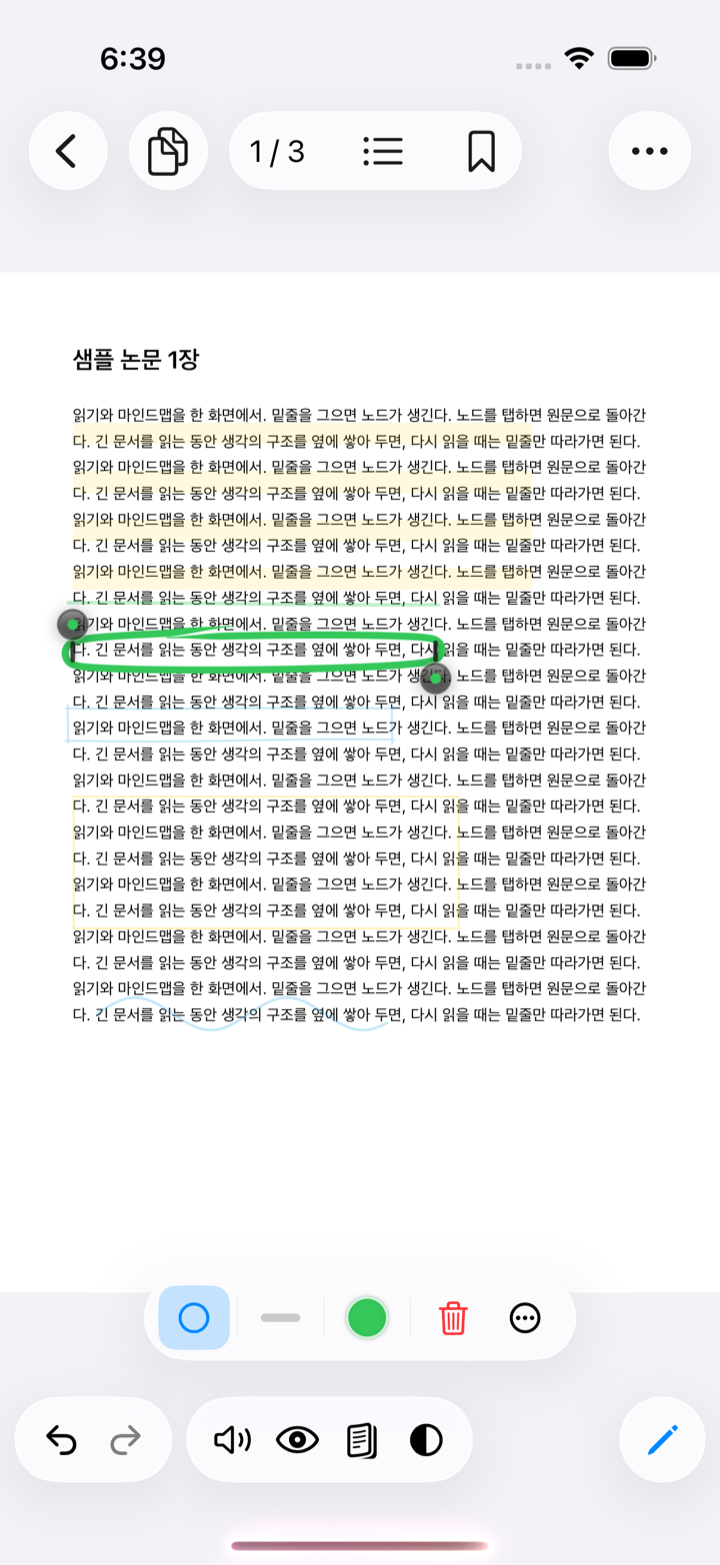
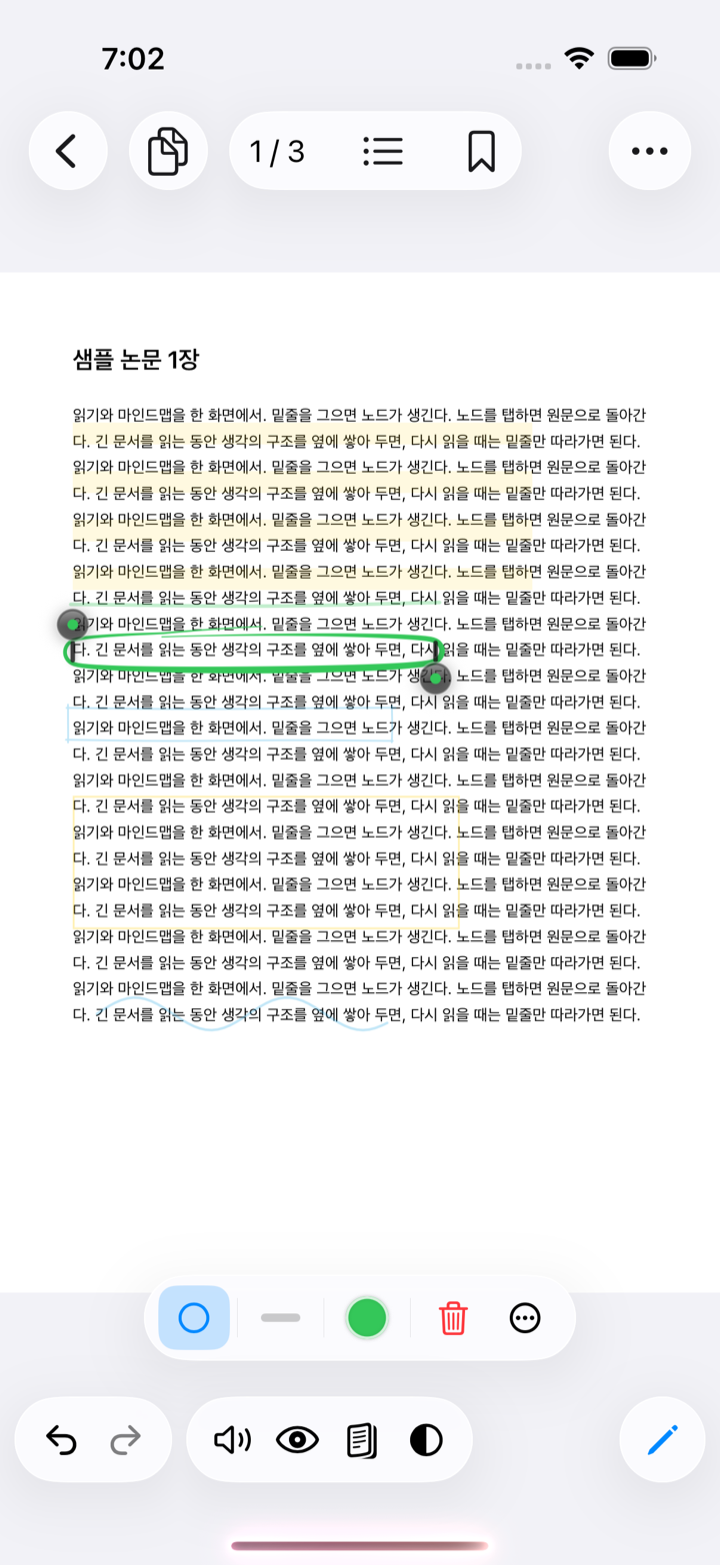
fix: blog — SuperPDF 줄 표시 만년필의 가늘어지는 길이 (획 길이 비례), 스크린샷 교체
Claude-Session: https://claude.ai/code/session_01UreDqozjHLdwUGiykiUzpR

Changed region(s): [[0.0917, 0.3681, 0.6111, 0.4294], [0.1222, 0.0307, 0.2444, 0.0613]]

diff --git a/src/content/blog/ko/2026-11-02-superpdf-hand-drawn-styles.md b/src/content/blog/ko/2026-11-02-superpdf-hand-drawn-styles.md
@@ -125,7 +125,7 @@ summary: "줄 표시가 형광펜·밑줄 둘에서 취소선·동그라미·네
 
 ![만년필로 바꾼 동그라미, 꼬리 쪽이 가늘게 빠진다](/blog/superpdf-hand-drawn-styles/fountain-circle.png)
 
-굵기 공식은 손글씨 만년필과 똑같은 것을 쓴다. 다만 손글씨에 있는 압력 민감도는 뺐다. 손글씨는 펜슬의 힘이나 손가락의 속도가 있지만, 줄 표시는 글줄에서 계산하는 모양이라 누르는 힘이라는 게 없다. 가짜 압력으로 가운데를 부풀리는 안도 있었지만, 선명도가 이미 "가운데는 제 굵기, 끝은 가늘게" 를 낸다.
+굵기 공식은 손글씨 만년필에서 가져왔지만 가늘어지는 길이는 다르다. 손글씨는 굵기에 따라 10–60pt 로 고정인데, 그걸 그대로 쓰니 400pt 밑줄은 끝 13pt 만 바늘처럼 꺾였다. 줄 표시는 획 길이에 비례해서 가늘어진다 — 선명도 100 이면 양끝에서 가운데까지 내내 이어지는 방추꼴이고, 60 이면 획의 30% 씩이다. 손글씨에 있는 압력 민감도는 뺐다. 손글씨는 펜슬의 힘이나 손가락의 속도가 있지만, 줄 표시는 글줄에서 계산하는 모양이라 누르는 힘이라는 게 없다. 가짜 압력으로 가운데를 부풀리는 안도 있었지만, 선명도가 이미 "가운데는 제 굵기, 끝은 가늘게" 를 낸다.
 
 그리는 방식은 바뀌었다. 볼펜은 가운뎃줄을 일정한 폭의 선으로 긋는다. 만년필은 점마다 굵기가 달라서 선으로는 못 그리고, 점마다 그 굵기만큼 양옆으로 벌린 외곽선을 만들어 채운다. 네모는 네 변이 각자 양끝이 가는 네 획이 된다. 굵기는 화면 좌표에서 매긴다 — 90도 돌아간 스캔 쪽에서도 펜촉 방향이 화면 기준이어야 붓글씨처럼 보인다. 볼펜 경로는 예전과 한 점도 다르지 않은지 테스트가 비교한다.
 
@@ -139,4 +139,4 @@ summary: "줄 표시가 형광펜·밑줄 둘에서 취소선·동그라미·네
 - 2026-11-03 — 동그라미의 뾰족한 끝을 둥글게, 겹침은 윗변으로
 - 2026-11-03 — 흔들림 슬라이더(0–100), 팝오버 화살표 고정을 뺌
 - 2026-11-05 — 새로 그은 줄에는 손잡이만, 툴팁은 탭할 때만
-- 2026-11-07 — 줄 표시에도 펜 종류: 볼펜 / 만년필(펜끝 선명도·펜 편평도)
+- 2026-11-07 — 줄 표시에도 펜 종류: 볼펜 / 만년필(펜끝 선명도·펜 편평도); 가늘어지는 길이는 획 길이에 비례

diff --git a/src/content/blog/en/2026-11-02-superpdf-hand-drawn-styles.md b/src/content/blog/en/2026-11-02-superpdf-hand-drawn-styles.md
@@ -110,7 +110,7 @@ Until now all four line marks were even-width, like a ballpoint. The handwriting
 
 ![A fountain-pen circle whose tail thins out](/blog/superpdf-hand-drawn-styles/fountain-circle.png)
 
-It uses the same width formula as the handwriting fountain pen, minus pressure: a mark is computed from the text line, so there is no force to read. Fountain marks are drawn as filled outlines with per-point width instead of a stroked line, computed in screen space so a rotated scan still gets a screen-aligned nib. The setting lives next to the wobble in the mark's small versioned JSON; older marks read as ballpoint, and a test checks the ballpoint path is unchanged point for point. Not yet tried with a Pencil on a real device.
+The width formula comes from the handwriting fountain pen, but the taper length is proportional to the stroke (half of it at sharpness 100) rather than the fixed 10–60pt handwriting uses, which left a 400pt underline needle-sharp for its last 13pt. There is no pressure: a mark is computed from the text line, so there is no force to read. Fountain marks are drawn as filled outlines with per-point width instead of a stroked line, computed in screen space so a rotated scan still gets a screen-aligned nib. The setting lives next to the wobble in the mark's small versioned JSON; older marks read as ballpoint, and a test checks the ballpoint path is unchanged point for point. Not yet tried with a Pencil on a real device.
 
 ## History
 
